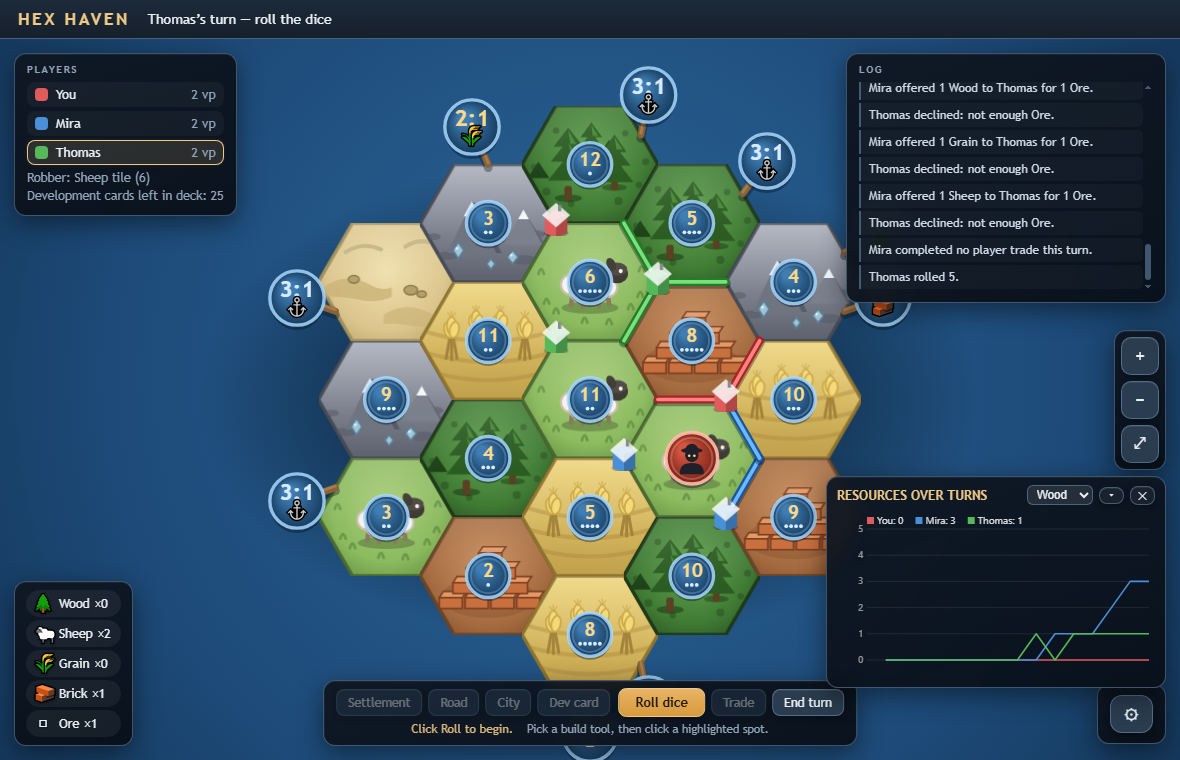
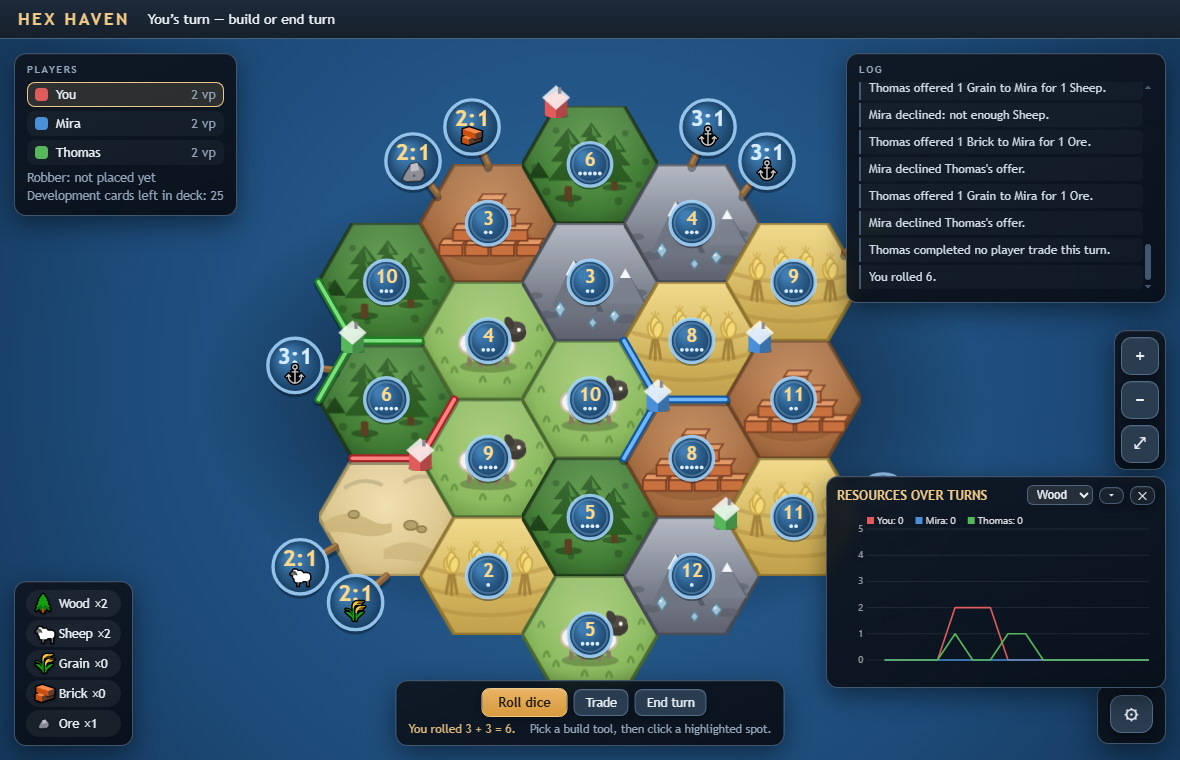
Ore artwork: replace unreliable rock emoji with a drawn gray rock (canvas + SVG)

diff --git a/js/render.js b/js/render.js
@@ -297,15 +297,59 @@ const RENDER = (() => {
     ctx.stroke();
 
     // Ratio (top) + resource icon (bottom). 2:1 ports get a warm ratio so
-    // the good ones read at a glance; 3:1 shows the anchor.
+    // the good ones read at a glance; 3:1 shows the anchor. Ore ports draw
+    // a faceted gray rock (vector): the ore emoji is unreliable on some
+    // systems, and a rock reads better anyway.
     ctx.textAlign = 'center';
     ctx.textBaseline = 'middle';
     ctx.fillStyle = harbor.res ? '#ffd98a' : '#d8ecff';
     ctx.font = `700 ${Math.round(S * 0.34 * k)}px "Trebuchet MS", sans-serif`;
     ctx.fillText(harbor.ratio + ':1', p.x, p.y - r * 0.28);
-    ctx.font = `${Math.round(S * 0.30 * k)}px "Trebuchet MS", sans-serif`;
-    ctx.fillText(harbor.res ? MAPGEN.HARBOR_LABELS[harbor.res] : '\u2693',
-      p.x, p.y + r * 0.38);
+    if (harbor.res === 'mount') {
+      drawRock(ctx, p.x, p.y + r * 0.38, S * 0.30 * k);
+    } else {
+      ctx.font = `${Math.round(S * 0.30 * k)}px "Trebuchet MS", sans-serif`;
+      ctx.fillText(harbor.res ? MAPGEN.HARBOR_LABELS[harbor.res] : '\u2693',
+        p.x, p.y + r * 0.38);
+    }
+  }
+
+  // A faceted gray boulder — the ore artwork. Drawn as vectors so it stays
+  // crisp at every zoom and never depends on emoji fonts.
+  function drawRock(ctx, cx, cy, s) {
+    ctx.save();
+    ctx.translate(cx, cy);
+    // Body: irregular heptagon with a dark outline.
+    ctx.beginPath();
+    ctx.moveTo(-0.55 * s, 0.42 * s);
+    ctx.lineTo(-0.38 * s, 0.05 * s);
+    ctx.lineTo(-0.12 * s, -0.35 * s);
+    ctx.lineTo(0.22 * s, -0.42 * s);
+    ctx.lineTo(0.52 * s, -0.10 * s);
+    ctx.lineTo(0.58 * s, 0.22 * s);
+    ctx.lineTo(0.38 * s, 0.48 * s);
+    ctx.lineTo(-0.30 * s, 0.52 * s);
+    ctx.closePath();
+    ctx.fillStyle = '#8d8d95';
+    ctx.strokeStyle = 'rgba(18, 24, 32, .6)';
+    ctx.lineWidth = Math.max(1, s * 0.09);
+    ctx.fill();
+    ctx.stroke();
+    // Sunlit top facet for volume.
+    ctx.beginPath();
+    ctx.moveTo(-0.12 * s, -0.35 * s);
+    ctx.lineTo(0.22 * s, -0.42 * s);
+    ctx.lineTo(0.30 * s, -0.05 * s);
+    ctx.lineTo(-0.10 * s, 0.02 * s);
+    ctx.closePath();
+    ctx.fillStyle = '#bcbfc7';
+    ctx.fill();
+    // Small dark speck like exposed ore.
+    ctx.beginPath();
+    ctx.arc(0.05 * s, 0.22 * s, s * 0.07, 0, Math.PI * 2);
+    ctx.fillStyle = 'rgba(40, 48, 58, .45)';
+    ctx.fill();
+    ctx.restore();
   }
 
   // The robber: a scarlet badge in the same visual family as the number

diff --git a/js/main.js b/js/main.js
@@ -217,6 +217,17 @@
     render();
   }
 
+  // Gray faceted rock, the same shape the board draws for ore harbours —
+  // replaces the ore emoji, which fails to render on some font sets.
+  const ROCK_SVG =
+    '<svg viewBox="-100 -100 200 200" width="19" height="19" ' +
+    'style="display:block;margin:0 auto" aria-hidden="true">' +
+    '<polygon points="-55,42 -38,5 -12,-35 22,-42 52,-10 58,22 38,48 -30,52" ' +
+    'fill="#8d8d95" stroke="rgba(18,24,32,.6)" stroke-width="9"/>' +
+    '<polygon points="-12,-35 22,-42 30,-5 -10,2" fill="#bcbfc7"/>' +
+    '<circle cx="5" cy="22" r="7" fill="rgba(40,48,58,.45)"/>' +
+    '</svg>';
+
   function renderHand() {
     const el = $('hand');
     if (!el) return;
@@ -230,10 +241,12 @@
         (picked > 0 ? ' picked' : '');
       chip.dataset.res = res;
       // The resource chip shows the same artwork as the harbor badges, a
-      // little bigger (`#hud-hand .res .icon` in style.css).
+      // little bigger (`#hud-hand .res .icon` in style.css). Ore uses a
+      // vector rock — the emoji fonts proved unreliable on some systems.
       const icon = document.createElement('span');
       icon.className = 'icon';
-      icon.textContent = MAPGEN.HARBOR_LABELS[res] || '•';
+      if (res === 'mount') icon.innerHTML = ROCK_SVG;
+      else icon.textContent = MAPGEN.HARBOR_LABELS[res] || '•';
       // Label and count are separate spans so small screens can hide the
       // word and keep just the coloured dot + count (see CSS).
       const label = document.createElement('span');

diff --git a/js/map.js b/js/map.js
@@ -6,6 +6,8 @@ const MAPGEN = (() => {
     hill: '#b0764a', mount: '#8d8d95', desert: '#d9cfa6',
   };
   const HARBOR_ICONS = { 2: '2:1', 3: '3:1' };
+  // The ore (mount) harbour ignores this map — render.js draws a vector
+  // rock instead, because the rock emoji fails to render on some systems.
   const HARBOR_LABELS = { forest: '🌲', pasture: '🐑', field: '🌾', hill: '🧱', mount: '🪨', null: '?' };
   // Official mix: 5 specific 2:1 ports — one per resource type (rulebook:
   // "only 1 special harbor for each type of resource") — plus 4 generic
